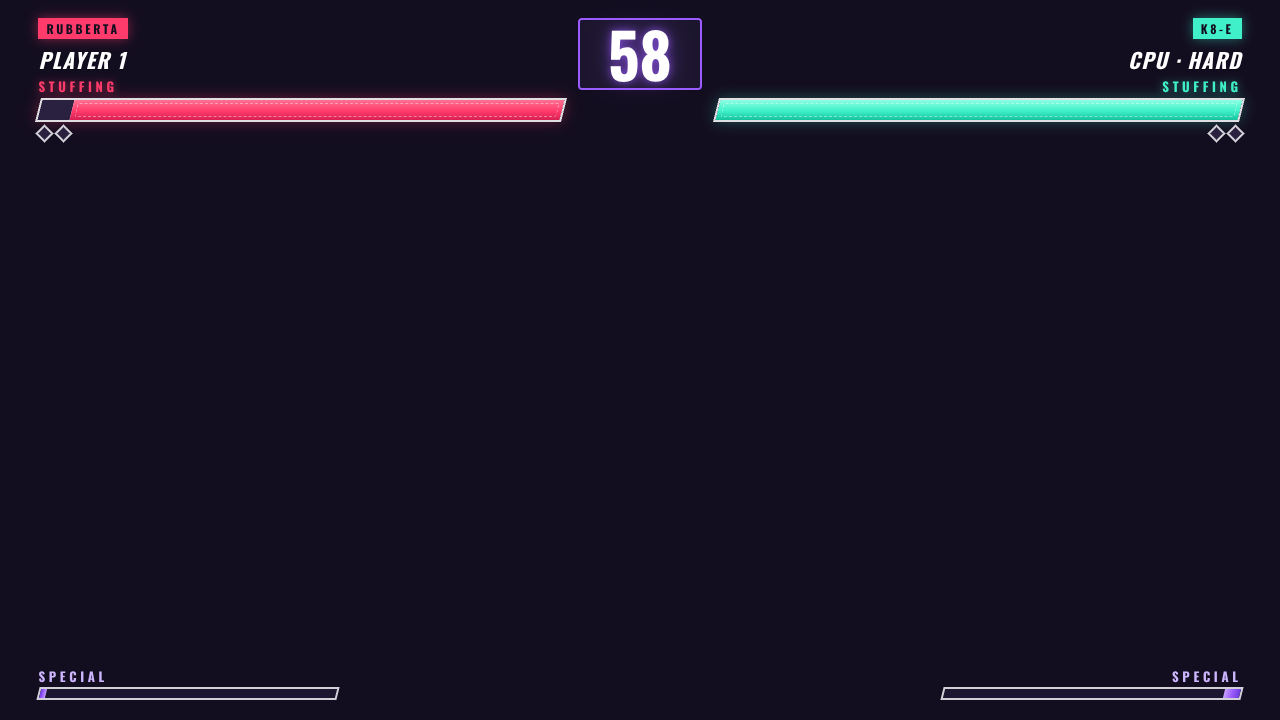
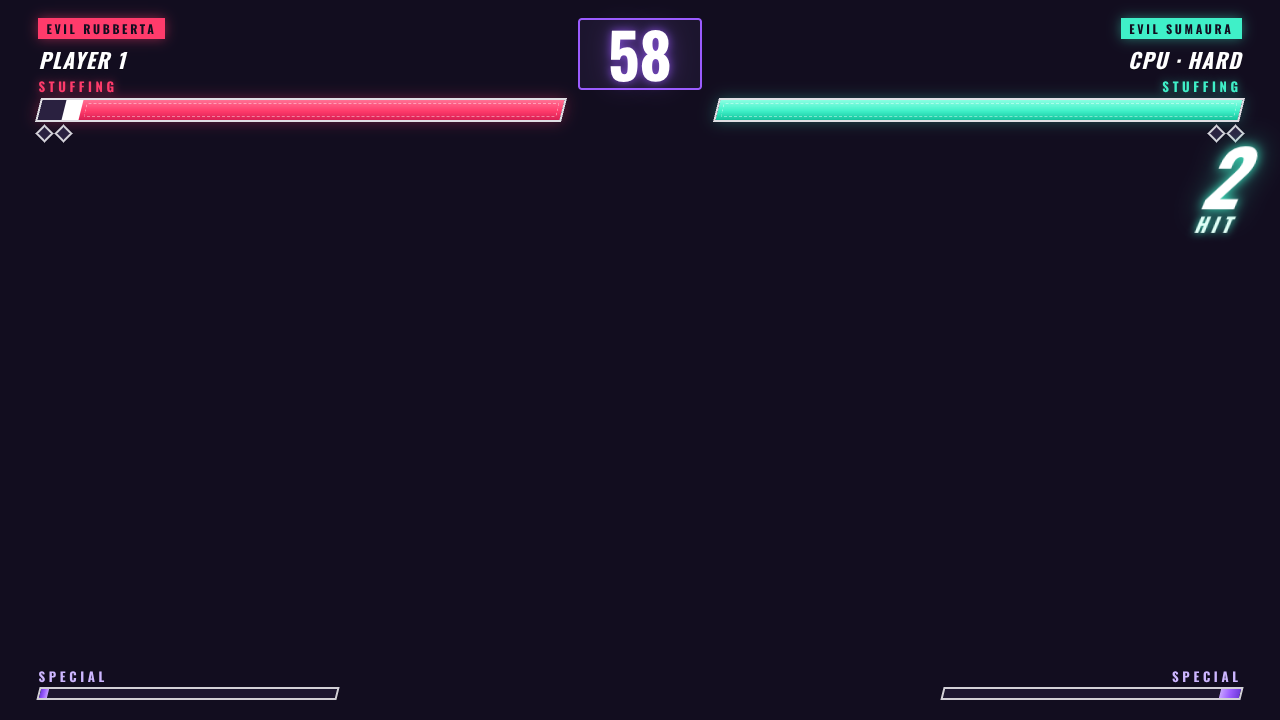
PF2: ALT fighters as their own cards — 7 OG over 7 ALT on the select grid
Each ALT has its own card (PF1-framed portrait rendered from its own 3D
model, keyed by id + variant), name (Evil X) and twin title. Plain arrow /
WASD grid navigation (up/down changes row); the other seat's locked card is
stepped over, so the quilt always shows the highlighted cards. Online sends
the slot as fighter + variant. Tests: test/select.test.mjs; check.mjs walks
P1 and the CPU onto ALT cards and checks the quilt.

Claude-Session: https://claude.ai/code/session_01Sb4eMXJm8yi8xvgj69sJc6

diff --git a/pillow-fight-2/_source/src/main.js b/pillow-fight-2/_source/src/main.js
@@ -10,7 +10,7 @@
 
 import * as THREE from 'three/webgpu';
 import { makeRenderer, Arena, U } from './render/arena.js';
-import { portraits, Turntable } from './render/portraits.js';
+import { portraits, portraitKey, Turntable } from './render/portraits.js';
 import { Fight } from './fight.js';
 import { Keyboard } from './input/keyboard.js';
 import { FIGHTERS, ROSTER, MAX_METER, fighterId } from './fighters/index.js';
@@ -19,7 +19,7 @@ import { FLAGS } from './ui/flags.js';
 import { say, dismiss } from './ui/bubble.js';
 import { SOLO, ACTIONS, toMap, loadBindings, keyCap } from './input/layouts.js';
 import { keyboardSVG, soloBinding, comboLine } from './ui/keymap.js';
-import { TWIN_TITLE } from './ui/variant.js';
+import { TWIN_TITLE, stepSlot, slotAlt } from './ui/variant.js';
 import { AudioEngine, renderOffline } from './audio/engine.js';
 import { CLIPS } from './audio/clips.js';
 import { SfxRouter } from './audio/sfxmap.js';
@@ -33,6 +33,7 @@ const params = new URLSearchParams(location.search);
 const esc = (t) => String(t).replace(/[&<>"]/g, (c) => ({ '&': '&amp;', '<': '&lt;', '>': '&gt;', '"': '&quot;' }[c]));
 const LS = (() => { try { const s = window.localStorage; s.getItem('x'); return s; } catch { return null; } })();
 const flagOf = (id) => FLAGS[FIGHTERS[id].nation];
+const N = ROSTER.length;
 
 /* frame data for a move: startup, active, recovery, on block, and how it
    travels — tracking (circular: catches a sidestep), linear (a sidestep
@@ -226,35 +227,51 @@ class App {
   /* ── character select ──────────────────────────────────────────────── */
   _enterSelect() {
     this.locked = [false, false]; this.picking = 0;
-    if (this.mode === 'versus' && this.pick[0] === this.pick[1]) this.pick[1] = (this.pick[0] + 1) % ROSTER.length;
+    if (this.mode === 'versus' && this.slot(0) === this.slot(1)) this._setSlot(1, stepSlot(this.slot(1), 1, 0));
     if (this.fight) { this.fight.dispose(); this.fight = null; }
     if (!this.table) this.table = new Turntable(this.arena);
     const cards = $('#cards');
     cards.textContent = '';
-    const n = ROSTER.length;
-    ROSTER.forEach((id, i) => {
-      const f = FIGHTERS[id], c = document.createElement('div');
-      c.className = 'card'; c.dataset.id = id;
-      // the row curves round the viewer: a carousel's arc
-      const a = (i - (n - 1) / 2) * 7;
-      c.style.setProperty('--ry', `${-a}deg`); c.style.setProperty('--tz', `${-Math.abs(i - (n - 1) / 2) * 14}px`);
-      c.innerHTML = `<span class="flag">${flagOf(id)}</span><span class="lab">${f.name}</span>`;
-      this._cardPortrait(c);
-      const seat = () => (this.mode === 'versus' ? (this.locked[0] ? 1 : 0) : this.picking);
-      c.onclick = () => { if (this.net.on) { this.net.choose(i, true); return; } const k = seat(); if (this.locked[k]) return; this.pick[k] = i; this._lock(k); };
-      c.onmouseenter = () => { if (this.net.on) { if (!this.locked[this.net.local] && this.pick[this.net.local] !== i) { this.net.choose(i, false); this.audio.ui('tick'); } return; } const k = seat(); if (this.locked[k] || this.pick[k] === i) return; this.pick[k] = i; this.audio.ui('tick'); this._paintSelect(); };
-      cards.appendChild(c);
-    });
+    for (let r = 0; r < 2; r++) {
+      const row = document.createElement('div');
+      row.className = `row ${r ? 'alts' : 'ogs'}`;
+      ROSTER.forEach((id, i) => {
+        const f = FIGHTERS[id], c = document.createElement('div'), alt = r === 1, slot = r * N + i;
+        c.className = `card${alt ? ' alt' : ''}`; c.dataset.id = id; c.dataset.slot = slot; c.dataset.v = alt ? 'alt' : 'og';
+        // each row curves round the viewer: a carousel's arc
+        const a = (i - (N - 1) / 2) * 7;
+        c.style.setProperty('--ry', `${-a}deg`); c.style.setProperty('--tz', `${-Math.abs(i - (N - 1) / 2) * 14}px`);
+        const nm = alt ? `Evil ${f.name}` : f.name, sub = alt ? TWIN_TITLE[id] || 'ALT' : f.animal;
+        c.title = alt ? `${nm} — the ${sub} (ALT)` : `${nm} — ${sub} (OG)`;
+        c.innerHTML = `<span class="vt">${alt ? 'ALT' : 'OG'}</span><span class="lab"><span class="flag">${flagOf(id)}</span><b>${esc(nm)}</b><i>${esc(sub)}</i></span>`;
+        this._cardPortrait(c);
+        const seat = () => (this.mode === 'versus' ? (this.locked[0] ? 1 : 0) : this.picking);
+        c.onclick = () => { if (this.net.on) { this.net.choose(slot, true); return; } const k = seat(); if (this.locked[k] || this._taken(k, slot)) return; this._setSlot(k, slot); this._lock(k); };
+        c.onmouseenter = () => { if (this.net.on) { if (!this.locked[this.net.local] && this.slot(this.net.local) !== slot && !this._taken(this.net.local, slot)) { this.net.choose(slot, false); this.audio.ui('tick'); } return; } const k = seat(); if (this.locked[k] || this.slot(k) === slot || this._taken(k, slot)) return; this._setSlot(k, slot); this.audio.ui('tick'); this._paintSelect(); };
+        row.appendChild(c);
+      });
+      cards.appendChild(row);
+    }
     this._legend();
     this._paintSelect();
   }
 
+  /* a card's portrait: its own fighter's, by the card's id and variant
+     (never another card's: the key carries both) */
   _cardPortrait(c) {
-    const src = this.portraits[c.dataset.id];
+    const key = portraitKey(c.dataset.id, c.dataset.v === 'alt'), src = this.portraits[key];
     if (!src || c.querySelector('img')) return;
-    const im = new Image(); im.alt = ''; im.src = src;
+    const im = new Image(); im.alt = ''; im.src = src; im.dataset.key = key;
     c.prepend(im);
   }
+
+  /* the grid slot each seat is on (0–6 the OGs, 7–13 the ALTs) */
+  slot(k) { return this.pick[k] + (this.alt[k] ? N : 0); }
+  _setSlot(k, s) { this.pick[k] = s % N; this.alt[k] = slotAlt(s); }
+  /* the other seat's locked card can't be taken too (no exact mirror: the
+     fighter on the quilt is always the card's) */
+  _taken(k, s) { return this.locked[1 - k] && this.slot(1 - k) === s; }
+  _step(k, dx, dy) { this._setSlot(k, stepSlot(this.slot(k), dx, dy, (s) => this._taken(k, s))); }
 
   _legend() {
     const vs = this.mode === 'versus';
@@ -271,16 +288,16 @@ class App {
       const B = this.bind;
       for (let k = 0; k < 2; k++) {
         if (this.locked[k]) { if (B[k].heavy.includes(c)) { this.locked[k] = false; this._paintSelect(); } continue; }
-        if (B[k].left.includes(c) || B[k].right.includes(c)) { this.pick[k] = (this.pick[k] + (B[k].right.includes(c) ? 1 : -1) + ROSTER.length) % ROSTER.length; this.audio.ui('tick'); this._paintSelect(); }
-        if (B[k].up.includes(c) || B[k].down.includes(c)) { this.alt[k] = !this.alt[k]; this._paintSelect(); }
+        if (B[k].left.includes(c) || B[k].right.includes(c)) { this._step(k, B[k].right.includes(c) ? 1 : -1, 0); this.audio.ui('tick'); this._paintSelect(); }
+        if (B[k].up.includes(c) || B[k].down.includes(c)) { this._step(k, 0, 1); this.audio.ui('tick'); this._paintSelect(); }
         if (B[k].light.includes(c) || (k === 0 && c === 'Enter')) this._lock(k);
       }
       if (c === 'Escape') this.go('mode');
       return;
     }
     const k = this.picking;
-    if (left || right) { this.pick[k] = (this.pick[k] + (right ? 1 : -1) + ROSTER.length) % ROSTER.length; this.audio.ui('tick'); this._paintSelect(); }
-    else if (up || down) { this.alt[k] = !this.alt[k]; this.audio.ui('tick'); this._paintSelect(); }
+    if (left || right) { this._step(k, right ? 1 : -1, 0); this.audio.ui('tick'); this._paintSelect(); }
+    else if (up || down) { this._step(k, 0, 1); this.audio.ui('tick'); this._paintSelect(); }
     else if (ok && !e.repeat) this._lock(k);
     else if (back) {
       if (k === 1) { this.picking = 0; this.locked[0] = false; this._paintSelect(); }
@@ -289,6 +306,7 @@ class App {
   }
 
   _lock(k) {
+    if (this._taken(k, this.slot(k))) { this.audio.ui('tick'); return; }
     this.locked[k] = true;
     this.audio.ui('confirm');
     if (this.mode === 'versus') {
@@ -296,7 +314,7 @@ class App {
       if (this.locked[0] && this.locked[1]) this.later(0.35, () => this.screen === 'select' && this.startFight({ vs: true }));
       return;
     }
-    if (k === 0) { this.picking = 1; if (this.pick[1] === this.pick[0]) this.pick[1] = (this.pick[0] + 1) % ROSTER.length; this._paintSelect(); return; }
+    if (k === 0) { this.picking = 1; if (this.slot(1) === this.slot(0)) this._step(1, 1, 0); this._paintSelect(); return; }
     if (this.mode === 'practice') { this.startPractice({ p1: ROSTER[this.pick[0]], p2: ROSTER[this.pick[1]] }); return; }
     this.go('diff');
   }
@@ -305,13 +323,16 @@ class App {
     const ids = this.pick.map((i) => ROSTER[i]);
     const online = this.net.on;
     const two = this.mode === 'versus' || online || this.picking === 1 || this.locked[1];
+    const s0 = this.slot(0), s1 = this.slot(1);
     for (const c of $$('.card')) {
-      const i = ROSTER.indexOf(c.dataset.id);
-      c.classList.toggle('c1', i === this.pick[0]);
-      c.classList.toggle('c2', two && i === this.pick[1]);
+      const i = +c.dataset.slot;
+      c.classList.toggle('c1', i === s0);
+      c.classList.toggle('c2', two && i === s1);
+      c.classList.toggle('lk1', i === s0 && this.locked[0]);
+      c.classList.toggle('lk2', two && i === s1 && this.locked[1]);
       c.querySelectorAll('.tag').forEach((t) => t.remove());
-      if (i === this.pick[0]) c.insertAdjacentHTML('beforeend', '<span class="tag t1">P1</span>');
-      if (two && i === this.pick[1]) c.insertAdjacentHTML('beforeend', `<span class="tag t2">${this.mode === 'practice' ? 'DUMMY' : this.mode === 'versus' ? 'P2' : 'CPU'}</span>`);
+      if (i === s0) c.insertAdjacentHTML('beforeend', '<span class="tag t1">P1</span>');
+      if (two && i === s1) c.insertAdjacentHTML('beforeend', `<span class="tag t2">${this.mode === 'practice' ? 'DUMMY' : this.mode === 'versus' ? 'P2' : 'CPU'}</span>`);
     }
     const plate = (sel, k, active) => {
       const id = ids[k], f = FIGHTERS[id], P = $(sel), evil = this.alt[k];
@@ -329,10 +350,10 @@ class App {
     const pr = this.mode === 'practice';
     if (this.mode === 'versus') {
       $('#select-step').textContent = this.locked[0] && this.locked[1] ? 'Both locked in — fight!' : 'Both pick at once';
-      $('#select-hint').textContent = 'P1: A / D choose, W / S OG or ALT, G lock · P2: ← / → choose, ↑ / ↓ OG or ALT, Num 4 lock · Esc back';
+      $('#select-hint').textContent = 'P1: W A S D choose, G lock · P2: arrows choose, Num 4 lock · OG on top, ALT below · Esc back';
     } else {
       $('#select-step').textContent = this.picking === 0 ? (pr ? 'Practice — pick your fighter' : 'Pick for Player 1') : (pr ? 'Pick the practice dummy' : 'Pick the Computer’s fighter');
-      $('#select-hint').textContent = `${this.picking === 0 ? 'Player 1' : pr ? 'Dummy' : 'Computer'} — A / D to choose, W / S for OG or ALT, O to pick${this.picking ? ', P to go back' : ''}`;
+      $('#select-hint').textContent = `${this.picking === 0 ? 'Player 1' : pr ? 'Dummy' : 'Computer'} — arrows / W A S D to choose (OG on top, ALT below), O to pick${this.picking ? ', P to go back' : ''}`;
     }
     if (online) this.net.paintSelect();
     if (this.table) { this.table.set(0, ids[0], this.alt[0]); this.table.set(1, two ? ids[1] : null, this.alt[1]); }
@@ -748,7 +769,10 @@ async function start() {
   app.cpuFor = (k, level, seed) => new CPU(k, level, seed);
   app.ROSTER = ROSTER;
   app.renderAudio = (o) => renderOffline({ clips: CLIPS, ...o });
-  if (!params.has('noportraits')) { try { app.portraits = await portraits(renderer, app.arena, ROSTER); } catch (err) { console.warn('portraits', err); } }
+  if (!params.has('noportraits')) {
+    const put = (key, url) => { app.portraits[key] = url; for (const c of $$('#cards .card')) app._cardPortrait(c); };
+    try { await portraits(renderer, app.arena, ROSTER, { onEach: put }); await portraits(renderer, app.arena, ROSTER, { alt: true, onEach: put }); } catch (err) { console.warn('portraits', err); }
+  }
   for (const c of $$('#cards .card')) app._cardPortrait(c);
   let last = performance.now();
   app.hold = params.has('hold');

diff --git a/pillow-fight-2/_source/src/online.js b/pillow-fight-2/_source/src/online.js
@@ -12,7 +12,7 @@
 
 import { host, join, roomCode, cleanRoom } from './net/link.js';
 import { ROSTER } from './fighters/index.js';
-import { selectMsg, readSelect, startMsg, readStart, resolveVariants } from './ui/variant.js';
+import { selectMsg, readSelect, startMsg, readStart, resolveVariants, stepSlot } from './ui/variant.js';
 
 const $ = (s) => document.querySelector(s);
 const $$ = (s) => [...document.querySelectorAll(s)];
@@ -199,7 +199,7 @@ export class Online {
     A.go('select');
     A.picking = this.local;
     A.locked = [false, false];
-    if (A.pick[0] === A.pick[1]) A.pick[1] = (A.pick[0] + 1) % ROSTER.length;
+    if (A.slot(0) === A.slot(1)) A._setSlot(1, stepSlot(A.slot(1), 1, 0));
     this.cursor();
     A._paintSelect();
   }
@@ -213,15 +213,15 @@ export class Online {
       if (back && !this.starting) { A.locked[L] = false; this.send({ t: 'unlock' }); A._paintSelect(); }
       return;
     }
-    if (left || right) { this.choose((A.pick[L] + (left ? -1 : 1) + ROSTER.length) % ROSTER.length, false); A.audio.ui('tick'); return; }
-    if (up || down) { A.alt[L] = !A.alt[L]; this.cursor(); A._paintSelect(); A.audio.ui('tick'); return; }
+    if (left || right || up || down) { this.choose(stepSlot(A.slot(L), left ? -1 : right ? 1 : 0, up || down ? 1 : 0, (s) => A._taken(L, s)), false); A.audio.ui('tick'); return; }
     if (ok && !e.repeat) this.lock();
   }
 
-  choose(i, lock) {
+  /* a grid slot (0–6 OG, 7–13 ALT): the fighter and its variant */
+  choose(slot, lock) {
     const A = this.app;
-    if (A.locked[this.local]) return;
-    A.pick[this.local] = i;
+    if (A.locked[this.local] || A._taken(this.local, slot)) return;
+    A._setSlot(this.local, slot);
     this.cursor();
     A._paintSelect();
     if (lock) this.lock();
@@ -229,7 +229,7 @@ export class Online {
 
   lock() {
     const A = this.app;
-    if (A.locked[this.local]) return;
+    if (A.locked[this.local] || A._taken(this.local, A.slot(this.local))) return;
     A.audio.ui('confirm');
     A.locked[this.local] = true;
     this.send(selectMsg('lock', A.pick[this.local], A.alt[this.local]));
@@ -252,18 +252,19 @@ export class Online {
   label(k) { return k === this.local ? `Player ${k + 1} · you` : `Player ${k + 1}`; }
   paintSelect() {
     const A = this.app, L = this.local, R = this.remote;
+    const s0 = A.slot(0), s1 = A.slot(1);
     for (const c of $$('.card')) {
       c.querySelectorAll('.tag').forEach((t) => t.remove());
-      const i = ROSTER.indexOf(c.dataset.id);
-      if (i === A.pick[0]) c.insertAdjacentHTML('beforeend', `<span class="tag t1">${L === 0 ? 'YOU' : 'P1'}</span>`);
-      if (i === A.pick[1]) c.insertAdjacentHTML('beforeend', `<span class="tag t2">${L === 1 ? 'YOU' : 'P2'}</span>`);
+      const i = +c.dataset.slot;
+      if (i === s0) c.insertAdjacentHTML('beforeend', `<span class="tag t1">${L === 0 ? 'YOU' : 'P1'}</span>`);
+      if (i === s1) c.insertAdjacentHTML('beforeend', `<span class="tag t2">${L === 1 ? 'YOU' : 'P2'}</span>`);
     }
     $('.plate.p1 .who').textContent = this.label(0);
     $('.plate.p2 .who').textContent = this.label(1);
     $('#select-step').textContent = A.locked[L]
       ? (A.locked[R] ? 'Both locked in — fight!' : `Locked in — waiting for Player ${R + 1}…`)
       : `Online · you’re Player ${L + 1} (${L === 0 ? 'pink' : 'mint'}) — pick your fighter`;
-    $('#select-hint').textContent = A.locked[L] ? 'P to change your mind · Esc to leave' : 'A / D to choose · W / S for OG or ALT · O to lock in · Esc to leave';
+    $('#select-hint').textContent = A.locked[L] ? 'P to change your mind · Esc to leave' : 'Arrows / W A S D to choose (OG on top, ALT below) · O to lock in · Esc to leave';
   }
 
   leave() { this.teardown(); this._forgetRoom(); this.app.mode = 'cpu'; this.app.go('mode'); }

diff --git a/pillow-fight-2/_source/src/index.html b/pillow-fight-2/_source/src/index.html
@@ -573,12 +573,28 @@ body.lobby .pr-moves{bottom:16px}
 @keyframes twoPuff{0%,100%{transform:rotate(-8deg) scale(1)}50%{transform:rotate(-6deg) scale(1.05,0.96)}}
 .subtitle{margin-top:-6px;font-family:var(--cond);font-weight:700;font-style:italic;letter-spacing:.55em;font-size:clamp(14px,1.8vw,22px);color:#fff;text-transform:uppercase;
   text-shadow:0 0 10px rgba(63,240,200,.9),0 0 26px rgba(63,240,200,.5)}
-.cards{perspective:900px;gap:6px;bottom:26px}
+.cards{flex-direction:column;align-items:center;gap:8px;bottom:18px;--cw:clamp(64px,8vw,112px)}
+.cards .row{display:flex;gap:6px;perspective:900px}
+.cards .card{width:var(--cw)}
+.card .lab{padding:4px 3px 4px 21px;font-size:clamp(8.5px,.86vw,12px);line-height:1.12;white-space:normal;text-overflow:clip}
+.card .lab b,.card .lab i{display:block;overflow:hidden;font-weight:700}
+.card .lab b{display:-webkit-box;-webkit-box-orient:vertical;-webkit-line-clamp:2;overflow-wrap:anywhere}
+.card .lab i{white-space:nowrap;text-overflow:ellipsis}
+.card .lab i{font-style:normal;font-size:.8em;letter-spacing:.06em;color:var(--dim)}
+.card .lab .flag{left:4px;top:50%;bottom:auto;transform:translateY(-50%);width:14px;height:10px}
+.card .vt{position:absolute;left:50%;top:5px;transform:translateX(-50%);font-family:var(--cond);font-weight:700;font-size:10px;letter-spacing:.14em;padding:0 5px;border-radius:2px;background:rgba(18,13,31,.75);color:#cdb6ff}
+.card.alt{background:radial-gradient(120% 90% at 50% 20%,#3a1622,#1a0f1c)}
+.card.alt .vt{background:#c41a2a;color:#fff;text-shadow:0 0 6px rgba(255,80,80,.8)}
+.card.alt .lab{color:#ffd0d6}
+.card.alt .lab i{color:#ff8a8a}
+.card .tag{font-size:10.5px;top:4px;padding:0 4px}
+.card.c1 .vt,.card.c2 .vt{display:none}
+#select-screen .step{bottom:18px;right:1.6vw;max-width:15vw;white-space:normal;line-height:1.35;font-size:12px;letter-spacing:.14em;text-align:center}
 .card{transform:rotateY(var(--ry,0deg)) translateZ(var(--tz,0px));transform-style:preserve-3d}
 .card:hover{transform:rotateY(var(--ry,0deg)) translateZ(calc(var(--tz,0px) + 20px)) translateY(-6px)}
 .card.c1,.card.c2{transform:rotateY(var(--ry,0deg)) translateZ(calc(var(--tz,0px) + 36px)) translateY(-10px)}
 #select-screen .plate{top:max(18%,170px)}
-.legend{position:absolute;left:50%;transform:translateX(-50%);bottom:calc(clamp(84px,9.6vw,136px) * 4 / 3 + 40px);width:min(600px,62vw);opacity:.93}
+.legend{position:absolute;left:50%;transform:translateX(-50%);bottom:calc(clamp(64px,8vw,112px) * 8 / 3 + 40px);width:min(470px,46vw);opacity:.9}
 .legend.vs{width:min(760px,80vw)}
 #title-screen .press-wrap{background:radial-gradient(ellipse at 50% 60%,rgba(18,13,31,.82),rgba(18,13,31,0) 70%);padding:20px 60px}
 .legend .kbsvg{width:100%;height:auto}

diff --git a/pillow-fight-2/_source/src/render/portraits.js b/pillow-fight-2/_source/src/render/portraits.js
@@ -9,8 +9,10 @@ import { unpackRows } from './readback.js';
 
 export const still = (id, fx = 1024, fz = 0, act = 'idle') => ({ id, act, face: 1, fx, fz, x: 0, y: 0, z: 0, t: 0, mv: '', back: 0, down: 0, kr: 0, kb: 0 });
 
-/* {id: dataURL} for every id */
-export async function portraits(renderer, arena, ids) {
+/* {key: dataURL}: an id (the OG) or `${id}:alt` (the evil twin) for every
+   entry; each fighter rendered alone, in the same frame, OG or ALT */
+export const portraitKey = (id, alt) => (alt ? `${id}:alt` : id);
+export async function portraits(renderer, arena, ids, { alt = false, onEach = null } = {}) {
   const W = 256, H = 320;
   const rt = new THREE.RenderTarget(W, H, { samples: 4 });
   rt.texture.colorSpace = THREE.SRGBColorSpace;
@@ -25,8 +27,9 @@ export async function portraits(renderer, arena, ids) {
       if (o === arena.world || arena.base.has(o) || !o.visible) continue;
       o.visible = false; hidden.push(o);
     }
-    const p = new Plush(arena.scene, id, { side: 0 });
+    const p = new Plush(arena.scene, id, { side: 0, evil: alt });
     arena.add(p.group);
+    p.monocle.visible = alt; p.toque.visible = false;
     const F = still(id, 0, 1024);
     for (let i = 0; i < 30; i++) p.update(1 / 60, F, F, [0, 0, 0], [0, 0, 3], false);
     arena.paintShadows([p]);
@@ -45,7 +48,9 @@ export async function portraits(renderer, arena, ids) {
     const img = g.createImageData(W, H);
     img.data.set(unpackRows(px, W, H, { flip: webgl, stride: webgl ? W * 4 : Math.ceil(W * 4 / 256) * 256 }));
     g.putImageData(img, 0, 0);
-    out[id] = c.toDataURL('image/png');
+    const key = portraitKey(id, alt);
+    out[key] = c.toDataURL('image/png');
+    onEach?.(key, out[key]);
   }
   rt.dispose();
   return out;

diff --git a/pillow-fight-2/_source/src/ui/variant.js b/pillow-fight-2/_source/src/ui/variant.js
@@ -5,6 +5,7 @@
    without a browser.                                                     */
 
 import { makeRng } from '../sim/rng.js';
+import { ROSTER } from '../fighters/index.js';
 
 /* the twins' titles, shown on the card and the plate when ALT is up */
 export const TWIN_TITLE = {
@@ -54,4 +55,18 @@ export class VariantMemory {
   get(k, id) { return !!this.m[k][id]; }
   has(k, id) { return id in this.m[k]; }
   set(k, id, alt) { this.m[k][id] = !!alt; }
+}
+
+/* the select grid: 14 slots, the 7 OGs (0–6) over their 7 ALT twins (7–13) */
+const N = ROSTER.length;
+export const slotId = (s) => ROSTER[s % N];
+export const slotAlt = (s) => s >= N;
+/* a step on the grid from slot s: dx along the row (wraps), dy flips the row;
+   `taken(slot)` (the other seat's locked card) is stepped over */
+export function stepSlot(s, dx, dy, taken = () => false) {
+  let i = s % N, r = s >= N ? 1 : 0;
+  if (dy) r = 1 - r;
+  if (dx) i = (i + dx + N) % N;
+  for (let n = 0; n < N && taken(r * N + i); n++) i = (i + (dx || 1) + N) % N;
+  return r * N + i;
 }
